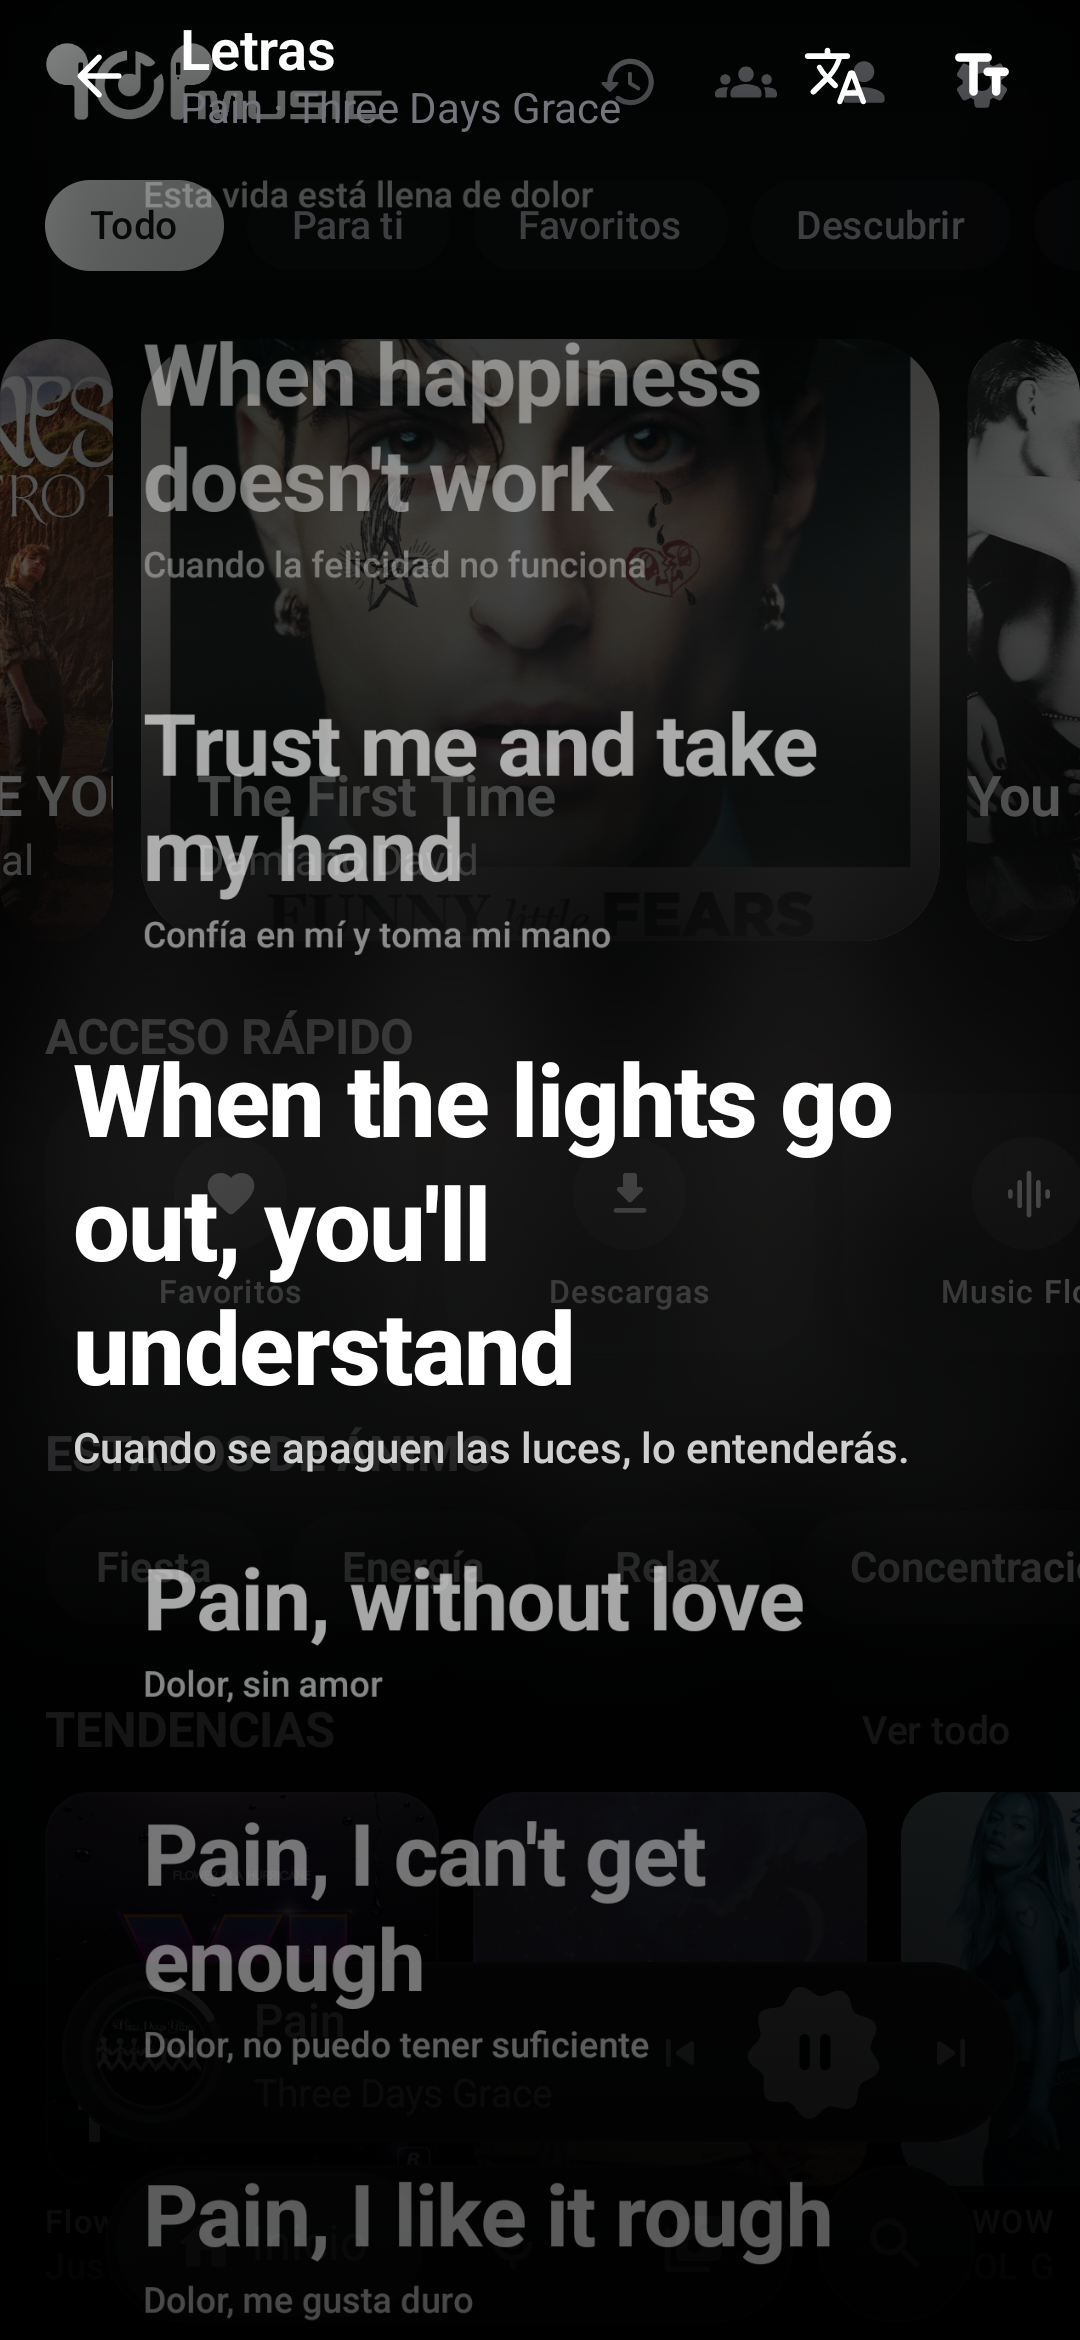
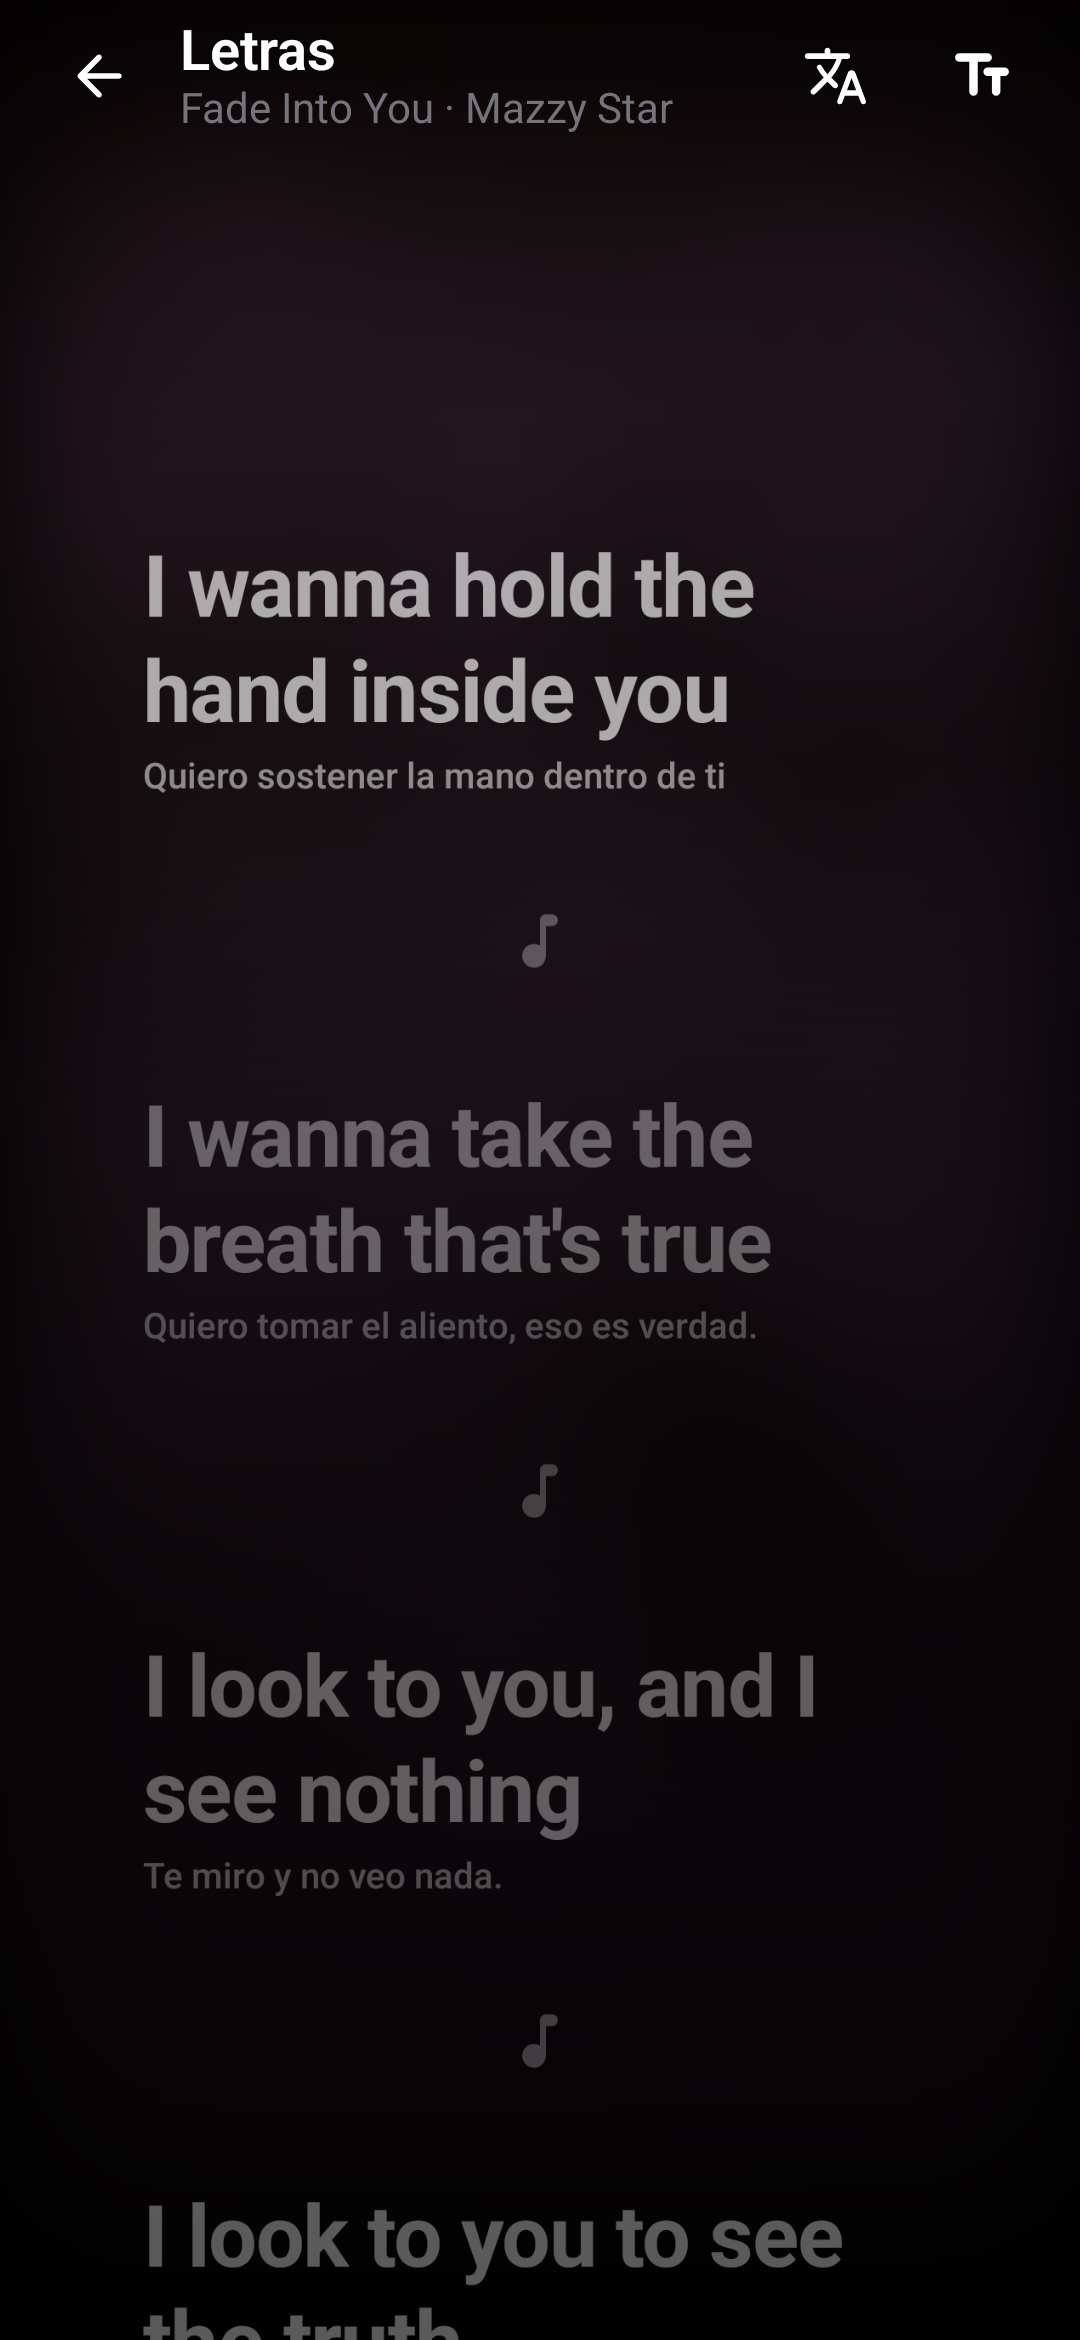
Fix: las pantallas sobre Inicio dejaban verlo por el glass
- Causa: el fotograma de la pantalla anterior (playerBehind) se conservaba
  tambien en Letras e Informacion, y sus fondos (GlassBackdrop) son
  semitransparentes -> se veia Inicio por detras. Ahora se descarta en
  cuanto la ruta es LYRICS/SONG_INFO; se conserva solo en NOW_PLAYING
  (cierre instantaneo) y 700 ms al volver a una pantalla normal.
- El reproductor ahora pinta base opaca (BgElev) en PlayerPaletteWash:
  mientras la paleta no esta lista o si falla la extraccion, no se ve la
  pantalla de atras a traves del glass.
- Recaptura de 05-letras (sin barra de estado)

diff --git a/native/app/src/main/java/com/popmusic/app/ui/screens/player/PlayerPaletteWash.kt b/native/app/src/main/java/com/popmusic/app/ui/screens/player/PlayerPaletteWash.kt
@@ -20,6 +20,7 @@ import androidx.compose.runtime.setValue
 import androidx.compose.ui.Modifier
 import androidx.compose.ui.graphics.Brush
 import androidx.compose.ui.graphics.Color
+import com.popmusic.app.ui.theme.BgElev
 import androidx.compose.ui.graphics.toArgb
 import androidx.compose.ui.platform.LocalContext
 import androidx.palette.graphics.Palette
@@ -43,7 +44,12 @@ internal fun PlayerPaletteWash(
     artworkUrl: String?,
     modifier: Modifier = Modifier,
 ) {
-    if (artworkUrl.isNullOrBlank()) return
+    if (artworkUrl.isNullOrBlank()) {
+        // Sin carátula: base OPACA para no dejar ver la pantalla de atrás
+        // a través del glass semitransparente.
+        Box(modifier = modifier.fillMaxSize().background(BgElev))
+        return
+    }
 
     val context = LocalContext.current
     var colors by remember(artworkUrl) { mutableStateOf(gradientCache.get(artworkUrl)) }
@@ -59,27 +65,30 @@ internal fun PlayerPaletteWash(
         colors = extracted
     }
 
-    AnimatedContent(
-        targetState = colors,
-        transitionSpec = { fadeIn(tween(800)) togetherWith fadeOut(tween(800)) },
-        label = "paletteWash",
-        modifier = modifier,
-    ) { stops ->
-        if (stops != null && stops.size >= 3) {
-            Box(
-                modifier = Modifier
-                    .fillMaxSize()
-                    .background(
-                        Brush.verticalGradient(
-                            colorStops = arrayOf(
-                                0f to stops[0],
-                                0.5f to stops[1],
-                                1f to stops[2],
+    // Base opaca: mientras se extraen los colores (o si la extracción falla)
+    // el reproductor no deja ver la pantalla de atrás a través del glass.
+    Box(modifier = modifier.fillMaxSize().background(BgElev)) {
+        AnimatedContent(
+            targetState = colors,
+            transitionSpec = { fadeIn(tween(800)) togetherWith fadeOut(tween(800)) },
+            label = "paletteWash",
+        ) { stops ->
+            if (stops != null && stops.size >= 3) {
+                Box(
+                    modifier = Modifier
+                        .fillMaxSize()
+                        .background(
+                            Brush.verticalGradient(
+                                colorStops = arrayOf(
+                                    0f to stops[0],
+                                    0.5f to stops[1],
+                                    1f to stops[2],
+                                ),
                             ),
-                        ),
-                    )
-                    .background(Color.Black.copy(alpha = 0.2f)),
-            )
+                        )
+                        .background(Color.Black.copy(alpha = 0.2f)),
+                )
+            }
         }
     }
 }

diff --git a/native/app/src/main/java/com/popmusic/app/PopMusicApp.kt b/native/app/src/main/java/com/popmusic/app/PopMusicApp.kt
@@ -299,17 +299,20 @@ fun PopMusicApp() {
         }
     }
 
-    // Se descarta el fotograma a los 700 ms de salir del reproductor
-    // (las transiciones duran ~300 ms) para que ninguna otra pantalla
-    // quede con una imagen vieja detrás. Dentro del reproductor/letras/
-    // información se conserva (esas pantallas tienen fondo propio).
+    // El fotograma de la pantalla anterior solo debe verse mientras el
+    // reproductor está encima (cierre instantáneo). En Letras/Información
+    // se descarta de inmediato: sus fondos de glass son semitransparentes
+    // y el fotograma de Inicio se filtraría por detrás (bug de pantallas
+    // transparentes). Al volver a una pantalla normal se conserva 700 ms
+    // para cubrir la transición de cierre (~300 ms).
     LaunchedEffect(currentRoute) {
-        val inPlayer = currentRoute == Routes.NOW_PLAYING ||
-            currentRoute == Routes.LYRICS ||
-            currentRoute == Routes.SONG_INFO
-        if (!inPlayer) {
-            delay(700)
-            playerBehind = null
+        when (currentRoute) {
+            Routes.LYRICS, Routes.SONG_INFO -> playerBehind = null
+            Routes.NOW_PLAYING -> Unit
+            else -> {
+                delay(700)
+                playerBehind = null
+            }
         }
     }
 
